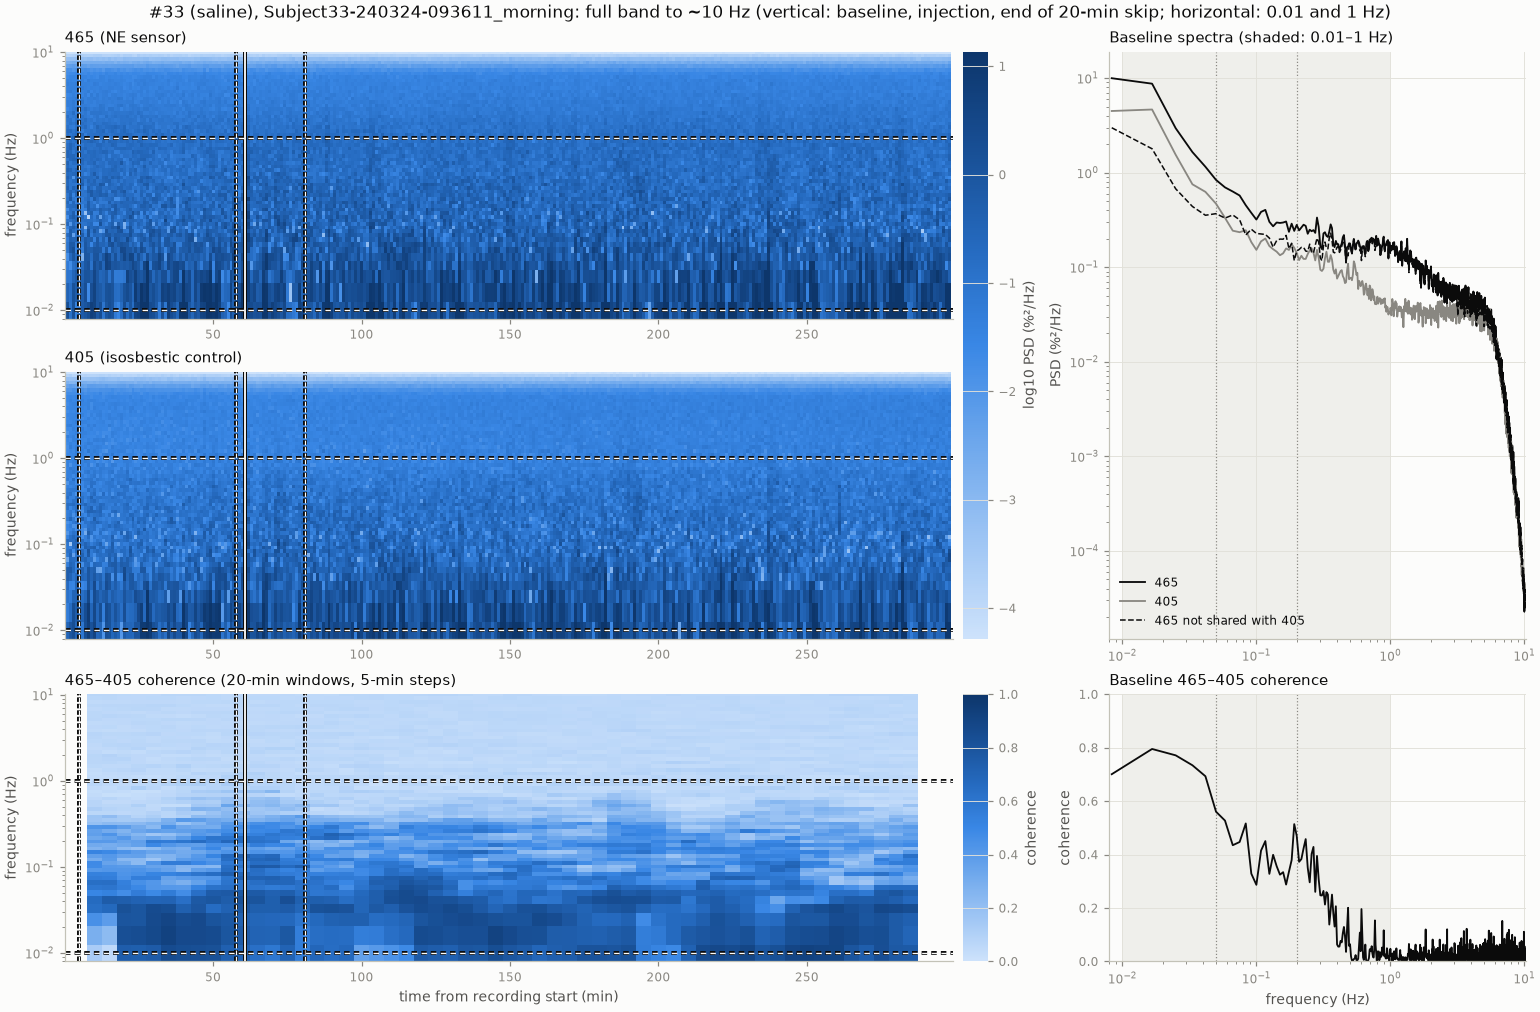
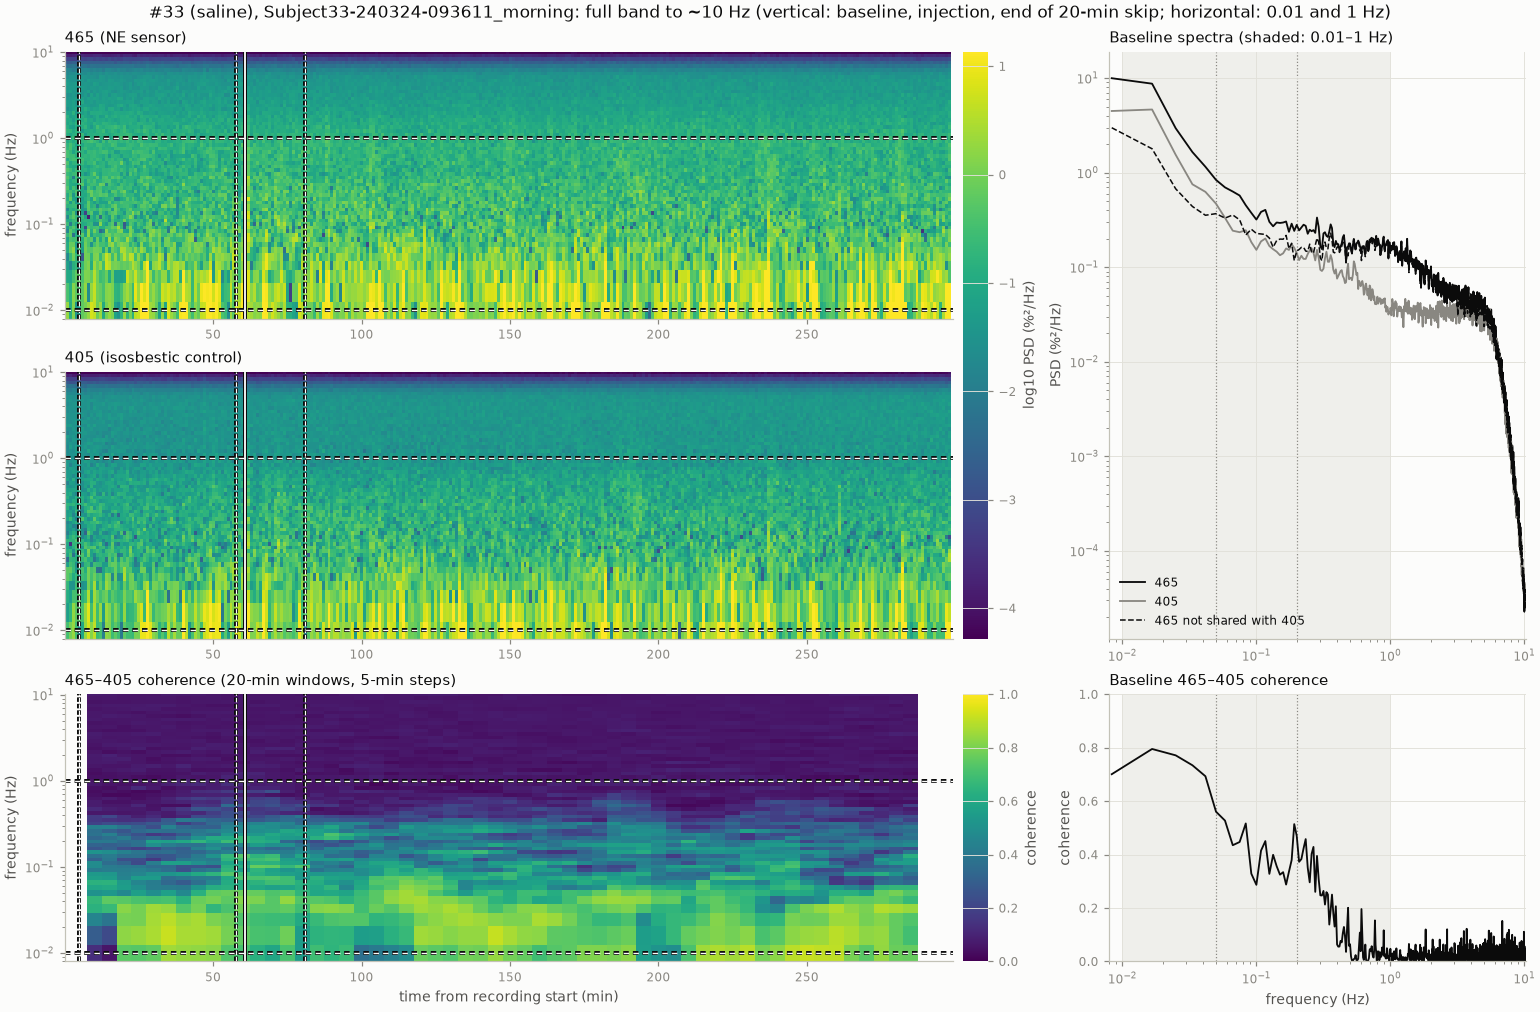
Clarify the spectral report's summary and switch spectrograms to viridis
- Summary explains what "shared with the control" means and states the artifact reading as a suspicion
- First finding no longer carries the measure qualifier
- Figure 2 caption defines its dashed line

diff --git a/reports/2026-10-27_first5h_ne_spectra.md b/reports/2026-10-27_first5h_ne_spectra.md
@@ -8,10 +8,10 @@
 
 **Findings.**
 
-- **Slow NE fluctuations drop after glucose in about half the glucose mice.** In the 0.01–0.05 Hz band (periods of 20–100 s), the 465 power not shared with the 405 control fell 3–9× for ~2–3 h in 3 of 6 glucose mice (#5, FP1, FP2). It fell briefly in a 4th (#3, first hour only). None of the 3 saline mice showed a drop.
+- **Slow NE fluctuations drop after glucose in about half the glucose mice.** Fluctuations in the 0.01–0.05 Hz band (swings lasting 20–100 s) became 3–9× weaker for ~2–3 h in 3 of 6 glucose mice (#5, FP1, FP2). They dropped briefly in a 4th (#3, first hour only). None of the 3 saline mice showed a drop.
 - On average over the first 2 h after the injection, glucose mice lost about half their slow-band power (÷2.2). Saline mice gained slightly (×1.2).
 - **The effect is limited to slow frequencies.** It reaches about 0.1 Hz. From 0.2 to 1 Hz neither group changes.
-- **Much of the raw 465 signal is shared with the 405 control** at 0.05–1 Hz (coherence 0.4–0.9 in most mice). An early glucose peak near 0.15 Hz is entirely shared with 405, so it is an artifact or blood-flow signal, not NE.
+- **Between 0.05 and 1 Hz, much of the NE channel (465 nm) rises and falls in step with the control channel (405 nm).** The control is the same sensor lit with a colour that doesn't respond to NE. It only picks up things like movement and blood flow. In most mice, 40–90% of the 465 power in this range moves in lockstep with 405 (coherence 0.4–0.9). We therefore suspect that much of the 465 signal there comes from movement or blood flow rather than NE. One case is clearer: right after the glucose injection, a peak near 0.15 Hz appears in both channels, in step, so we strongly suspect it is an artifact rather than an NE response.
 - This is a descriptive first pass with 6 vs. 3 mice and no statistics. The drop may reflect less sleep after glucose rather than a direct change in NE dynamics (see [Caveats](#caveats)).
 
 ## Dataset
@@ -63,9 +63,9 @@ Groups, doses and injection times come from the experimenter's notebook. The thr
 
 ![Baseline 465 and 405 spectra to 10 Hz for each mouse, and every mouse's 465–405 coherence](../results/spectra_first5h/full_band_baseline.png)
 
-*Figure 2. Baseline spectra (top 3×3: 465 black, 405 grey, 465 not shared with 405 dashed) and 465–405 coherence (bottom; blue glucose, orange saline), 0.008–10 Hz. Shaded: the analysed 0.01–1 Hz; dotted: the band edges at 0.05 and 0.2 Hz. Data: [`full_band_baseline.csv`](../results/spectra_first5h/full_band_baseline.csv).*
+*Figure 2. Baseline spectra (top 3×3: 465 black, 405 grey, and dashed the 465 not shared with 405, i.e. P465 × (1 − coherence), the main measure defined in the table above) and 465–405 coherence (bottom; blue glucose, orange saline), 0.008–10 Hz. Shaded: the analysed 0.01–1 Hz; dotted: the band edges at 0.05 and 0.2 Hz. Data: [`full_band_baseline.csv`](../results/spectra_first5h/full_band_baseline.csv).*
 
-- **Why stop at 1 Hz.** In short: above 1 Hz there is no signal, not a contaminated one. (The range where 465 and 405 are most tangled is 0.05–1 Hz, which is analysed.) In detail: from ~0.8–1.2 Hz upward, the 465 spectrum goes flat: it has hit the noise floor (Table A1). Coherence with 405 falls to 0.02–0.04 there, the level expected from pure chance with ~54 baseline segments. A flat spectrum that is uncorrelated between the two channels is what independent detector noise looks like. Nothing above ~1 Hz can be resolved in either channel. From ~6 Hz both channels roll off steeply. The full-rate (~1017 Hz) data show the same roll-off, so it comes from the acquisition's demodulator low-pass filter, not from our downsampling. The only shared structure above 1 Hz is artifact: a ~2–4 Hz trace in #5 from +30 to +90 min (likely breathing or movement) and a steady ~8 Hz band in #2 (likely heartbeat; a mouse's heart beats ~8–10 times a second). The GRAB-NE signal also takes seconds to decay after NE falls, which smooths out faster NE changes.
+- **Why stop at 1 Hz.** In short: above 1 Hz there is no signal, not a contaminated one. (The range where 465 and 405 are most tangled is 0.05–1 Hz, which is analysed.) In detail: from ~0.8–1.2 Hz upward, the 465 spectrum goes flat: it has hit the noise floor (Table A1). Coherence with 405 falls to 0.02–0.04 there, the level expected from pure chance with ~54 baseline segments. A flat spectrum that is uncorrelated between the two channels is what independent detector noise looks like. Nothing above ~1 Hz can be resolved in either channel. From ~6 Hz both channels roll off steeply. The full-rate (~1017 Hz) data show the same roll-off, so it comes from the acquisition's demodulator low-pass filter, not from our downsampling. The only shared structure above 1 Hz looks like artifact: a ~2–4 Hz trace in #5 from +30 to +90 min (likely breathing or movement) and a steady ~8 Hz band in #2 (likely heartbeat; a mouse's heart beats ~8–10 times a second). The GRAB-NE signal also takes seconds to decay after NE falls, which smooths out faster NE changes.
 - **Why stop at 0.01 Hz.** The 2-min Welch segment sets the frequency resolution to 1/120 s ≈ 0.008 Hz. The lowest bin, 0.008 Hz, is less than one cycle per segment. Longer segments would reach lower frequencies but give fewer segments: a ~55-min baseline yields ~54 two-min segments at 50% overlap, and fewer segments means noisier spectra. Below ~0.01 Hz, bleaching and slow drift dominate anyway, and the per-segment linear detrend removes them.
 
 **Bands.** The 0.01–1 Hz range is split into three bands. They were set before the analysis, at roughly even log spacing, and not tuned afterwards. The full change spectra (Figure 4) check that the band edges hide nothing.
@@ -80,7 +80,7 @@ Groups, doses and injection times come from the experimenter's notebook. The thr
 
 **In short:** in 3 of 6 glucose mice, slow NE fluctuations (swings lasting 20–100 s) shrank 3–9× for 2–3 h after the injection. A 4th glucose mouse dropped for the first hour only. No saline mouse dropped.
 
-**How to read the tables.** Each number compares one post-injection block with the same mouse's own baseline. ÷3 means the power fell to a third, ×1.5 means it rose by half, and ×1.0 or ÷1.0 means no change. The measure is the 465 power not shared with 405 (see [Methodology](#methodology)).
+**How to read the tables.** Each number compares one post-injection block with the same mouse's own baseline. ÷3 means the power fell to a third, ×1.5 means it rose by half, and ×1.0 or ÷1.0 means no change. Table 1 uses the 465 power not shared with 405: the part of 465 left after removing what moves in step with 405 (see [Methodology](#methodology)). This keeps movement and blood-flow artifacts out of the numbers. Raw 465 gives the same picture for the three strong responders (#5, FP1, FP2: ÷4 to ÷9 in the first two blocks). #3's first-hour drop is mostly seen after the removal: raw 465 falls only ÷1.4 there.
 
 **Table 1. Slow NE fluctuations (0.01–0.05 Hz), 465 power not shared with 405: change vs. the mouse's own baseline.** Bold: a drop of 3× or more.
 

diff --git a/treaty_docs/work_log.md b/treaty_docs/work_log.md
@@ -8,6 +8,15 @@ If today's date already has a `## YYYY-MM-DD` header at the top, add a new `###`
 
 Update this log at the end of any substantive work session unless the user explicitly asks not to document it. **The log records decisions about the project, not the content of the work produced** — the diff already says what changed. See [Work Log Discipline](treaty_conventions.md#work-log-discipline) for what counts as substantive and what to skip.
 
+## 2026-10-28
+
+### Report proofreading: Summary wording, Figure 2 caption, viridis (claude-opus-5-5, effort low)
+
+- User asked that claims of artifact be stated as suspicion unless known. The Summary now explains "shared" in plain terms (moves in lockstep with 405; coherence = fraction of 465 power predictable from 405) and says "suspect"/"strongly suspect".
+- Dropped the measure qualifier from the first Summary finding. Raw 465 gives the same ÷4–9 for #5/FP1/FP2. #3's brief drop is mostly in the not-shared measure (raw ÷1.4), which Results now says.
+- Spectrograms use viridis at the user's request (overrides the one-hue ramp default).
+- Verification: `black -l 110 --check spectra tests`; `python -m spectra.run_first5h`; inspected `full_band/5_glucose.png`; `~/.local/venvs/treaty/bin/treaty validate .`
+
 ## 2026-10-27
 
 ### Raw-signal figure added to the report (claude-opus-5-5, effort low)
